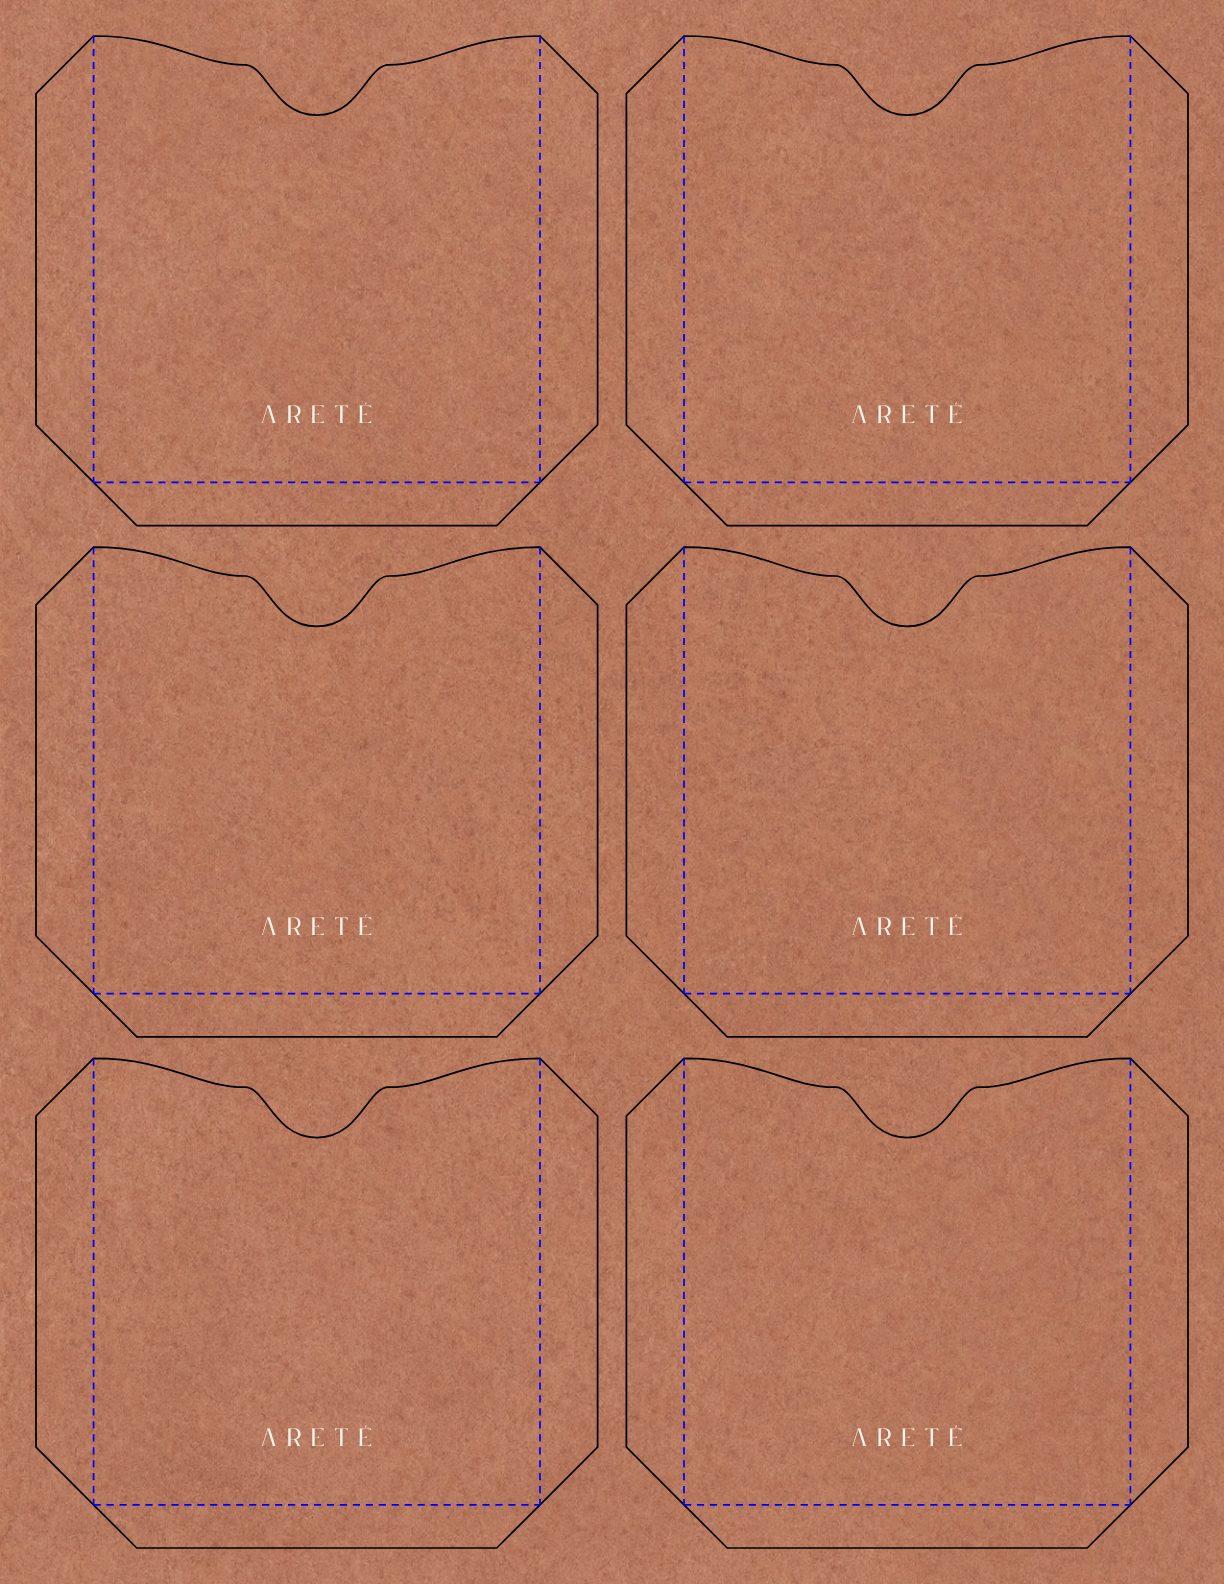
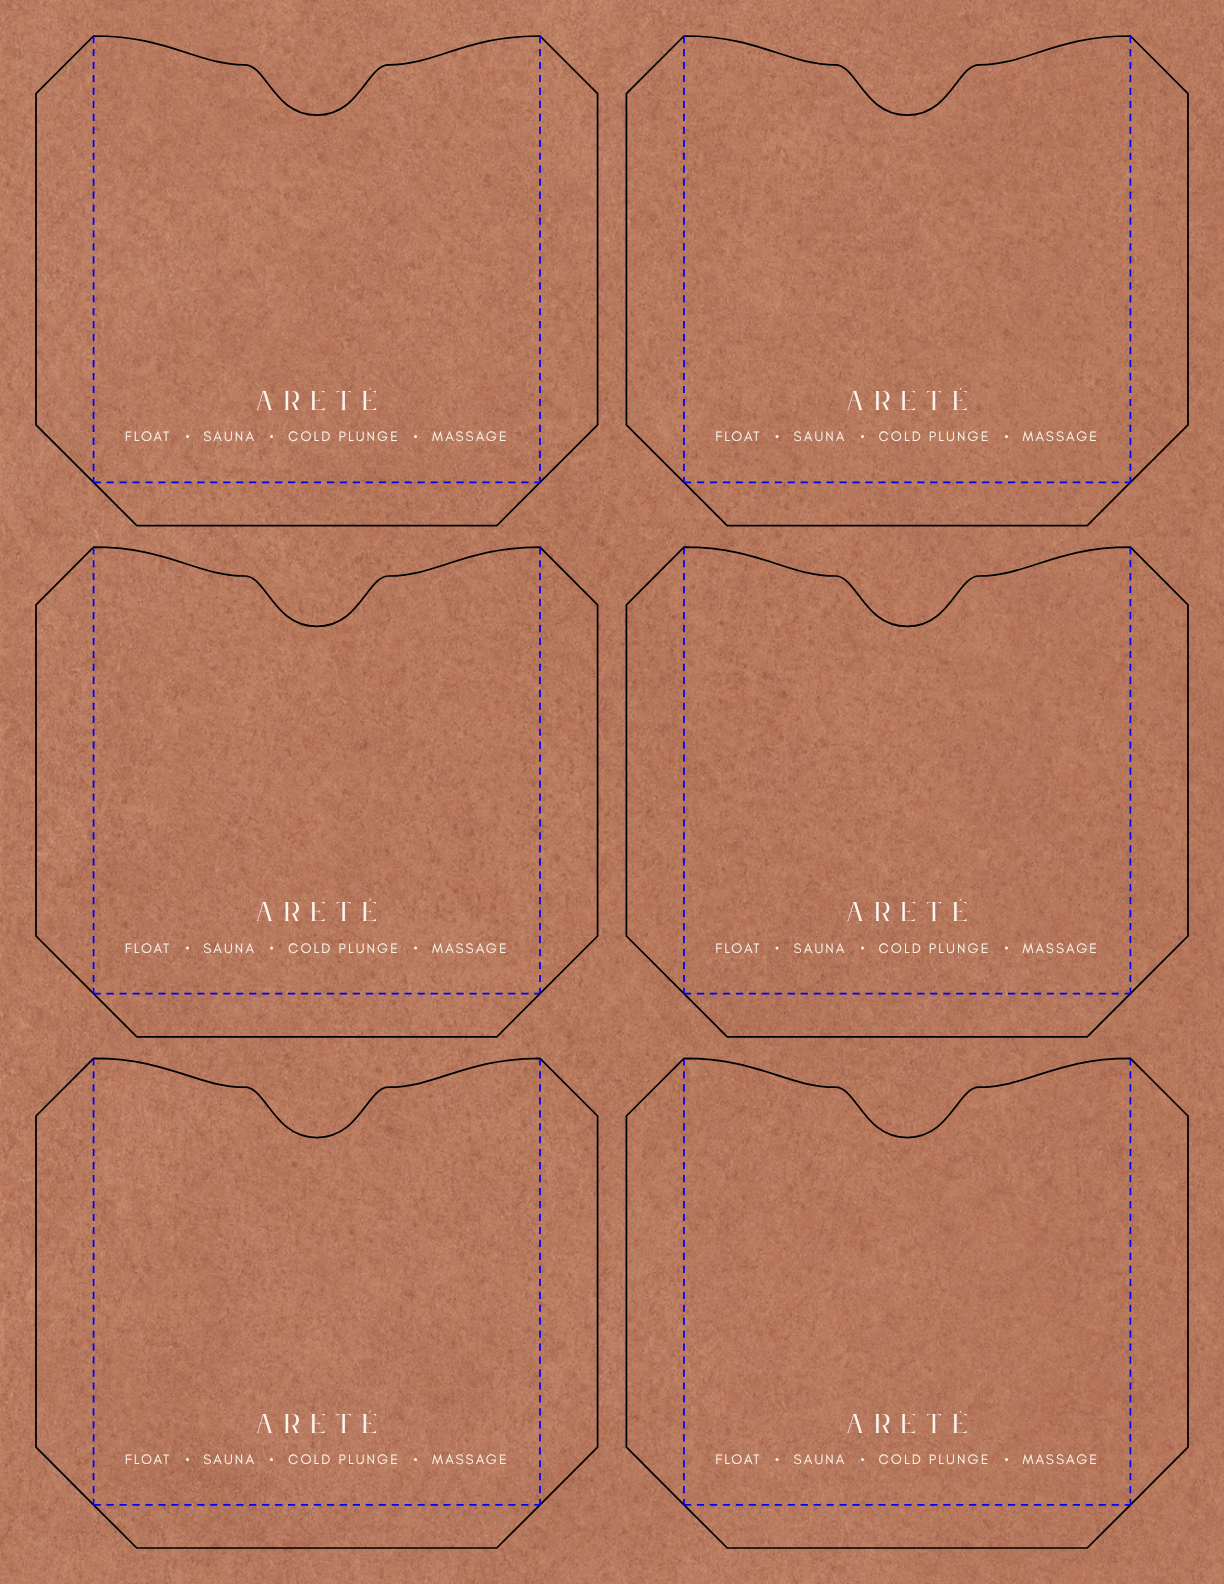
New Year hanger: service line on the pocket front
Claude-Session: https://claude.ai/code/session_0164WUgjVvum9YqbpGy16nPL

diff --git a/docs/print/reset-2027/README.md b/docs/print/reset-2027/README.md
@@ -11,7 +11,7 @@ Look at `out/mockup-hero.jpg` first.
 |---|---|---|
 | Hanger front | 3.5 × 8.5 in | "A Year of Possibility", ARETÉ, "Your best you is on the other side of a good reset.", hills. The pocket is glued here. |
 | Hanger back | 3.5 × 8.5 in | "Only you can hit the reset button.", the two "Perhaps…" lines, hills and sun, ARETÉ, service line, footer. |
-| Pocket | 3.1 × 3.1 in front panel | Plain terracotta with a small ARETÉ. Curved top edge with a thumb scoop. **No offer and no QR code.** |
+| Pocket | 3.1 × 3.1 in front panel | Terracotta with ARETÉ and the service line (FLOAT · SAUNA · COLD PLUNGE · MASSAGE). Curved top edge with a thumb scoop. **No offer and no QR code.** |
 | Card | 3 × 3 in | "A little more room for yourself.", NEW YEAR OFFER, $25 off your first month of a membership, Use code RESET, QR code, floatarete.com/reset, Valid through January 31, 2027. |
 
 The card stands inside the pocket. Its top shows in the curved opening, with the
